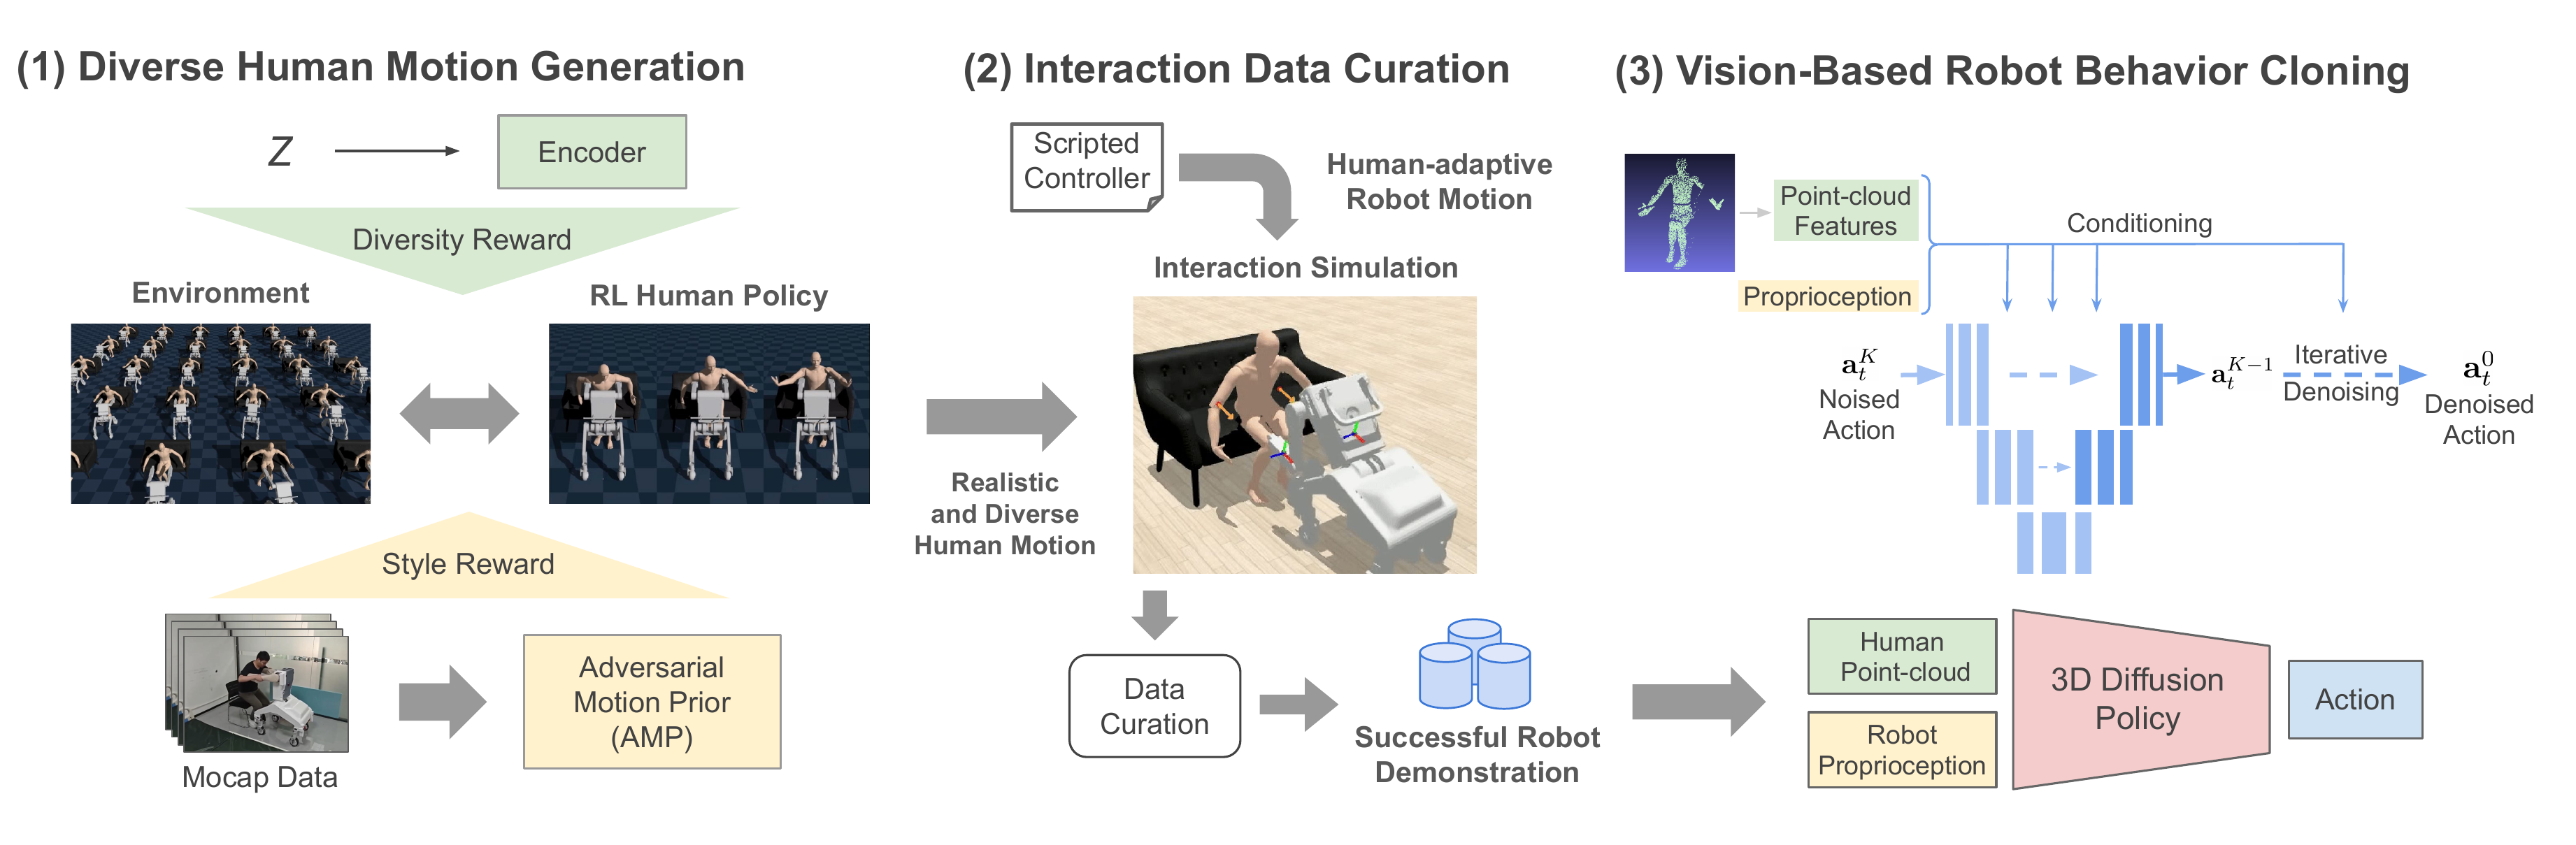
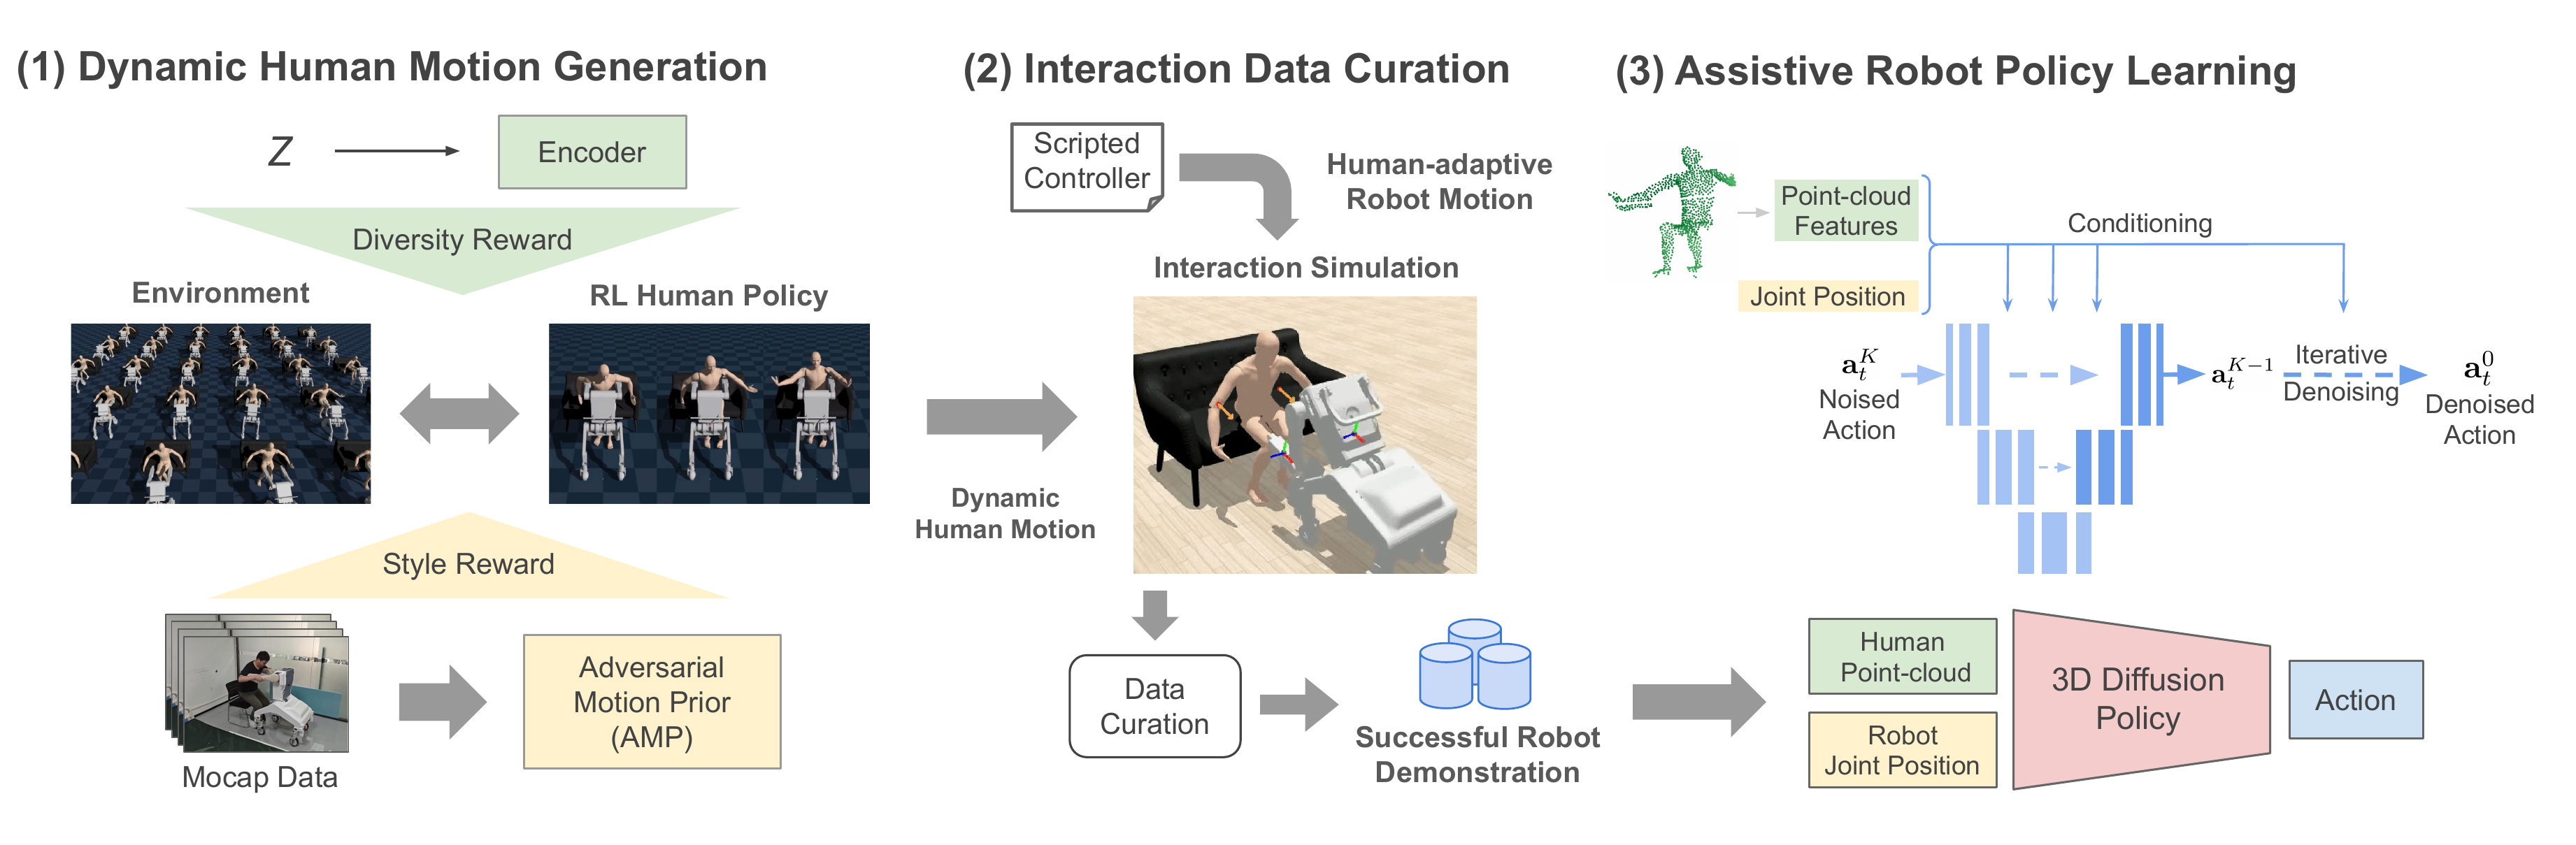
updated webpage 0629

diff --git a/index.html b/index.html
@@ -5,7 +5,7 @@
     <meta charset="utf-8">
     <meta name="viewport" content="width=device-width, initial-scale=1">
     <!-- TODO: page <title> shown in the browser tab -->
-    <title>Learning Robust Policies for Whole-Body Assistive Tasks via Diverse Physics-Based Human Motion Generation</title>
+    <title>Learning Robust Policies for Whole-Body Assistive Tasks via Dynamic Human Motion Generation</title>
 
     <link href="https://fonts.googleapis.com/css?family=Google+Sans|Noto+Sans|Castoro" rel="stylesheet">
 
@@ -39,7 +39,8 @@
 
                         <!-- TODO: full paper title -->
                         <h1 class="title is-1 publication-title">
-                            Learning Robust Policies for Whole-Body Assistive Tasks via Diverse Physics-Based Human Motion Generation
+                            Learning Robust Policies for Whole-Body<br>
+                            Assistive Tasks via Dynamic Human Motion Generation
                         </h1>
 
                         <!-- TODO: venue / submission status -->
@@ -138,7 +139,7 @@
                     <h2 class="title is-3">Abstract</h2>
                     <div class="content has-text-justified">
                         <p style="font-size: 125%">
-Learning robot policies for physical caregiving assistance is challenging because assistive tasks require close-contact, whole-body coordination with actively moving humans. Real-world data collection for such interactions is expensive and safety-critical, while existing simulation-based approaches often rely on quasi-static or minimally active human models that do not capture the diversity of real human behaviors. In this work, we present a simulation-driven framework for learning robust assistive robot policies through diverse physics-based human motion generation. We first train a latent-conditioned physics-based human policy with an adversarial motion prior to generate biomechanically plausible and diverse human motions during human-robot interaction. We then use these human motions to collect robot demonstrations with a human-adaptive scripted controller, producing interaction data that covers diverse human poses, motion styles, body scales, and relative human-robot configurations. Finally, we train a 3D diffusion policy from the curated demonstrations using segmented human point clouds and robot proprioception as deployable observations. Experiments on Sit-to-Stand and Lift-and-Transfer tasks show that our learned policy achieves strong simulation performance. Ablations further show that increasing human motion diversity improves downstream robot policy performance. We also demonstrate preliminary sim-to-real transfer on a physical assistive robot for Sit-to-Stand assistance after lightweight fine-tuning with a small amount of real-world data. These results suggest that diverse physics-based human motion generation is an effective path toward scalable learning of whole-body assistive robot policies.
+Learning robot policies for physical caregiving assistance is challenging because assistive tasks require close-contact, whole-body coordination with humans who dynamically move, balance, and exert interaction forces. Real-world data collection for such interactions is expensive and safety-critical, while existing simulation-based approaches often rely on quasi-static or minimally active human models that do not capture the dynamic nature of transfer assistance. In this work, we present a simulation-driven framework for learning robust whole-body assistive robot policies via dynamic human motion generation. We first train a physics-based human policy with an adversarial motion prior to generate biomechanically plausible human motions during physical human-robot interaction. The generated human acts as a dynamic simulated care recipient, allowing the robot to experience physically coupled interaction rather than assistance around a static human model. We then collect robot demonstrations in simulation with a human-adaptive scripted controller that conditions its assistance behavior on the current human state. Finally, we train a 3D diffusion policy from the curated demonstrations using segmented human point clouds and robot joint positions as deployable observations. Experiments on Sit-to-Stand and Lift-and-Transfer tasks show that the learned policy achieves strong simulation performance in close-contact assistive scenarios. We also demonstrate preliminary sim-to-real transfer on a physical assistive robot for Sit-to-Stand assistance after lightweight fine-tuning with a small amount of real-world data. These results suggest that dynamic human motion generation provides a scalable path toward learning robot policies for whole-body assistive tasks. Videos can be found on our anonymized <a href="https://human-motion-assistive-policy.github.io/">project website</a>.
                         </p>
                     </div>
                 </div>
@@ -155,10 +156,10 @@ Learning robot policies for physical caregiving assistance is challenging becaus
                         <h2 class="title is-3"><span class="dvima">Method Overview</span></h2>
 
                         <p style="font-size: 125%">
-Our framework uses a small set of motion-capture clips to generate diverse, physics-based human motions and collect human-robot interaction demonstrations across varied body scales, poses, motion styles, and environments. These demonstrations are then used to train a deployable vision-based robot policy that maps segmented human point clouds and robot proprioception to robot actions using 3D Diffusion Policy.
+Our training pipeline has three stages. First, we train a physics-based human policy with an Adversarial Motion Prior (AMP) and latent conditioning to generate <strong>dynamic physics-based human motions</strong> across varied human physical capabilities, body scales, poses, motion styles, and environments. Next, we simulate robot assistance with a human-adaptive scripted controller and curate successful interactions as robot demonstrations. Finally, we train a deployable assistive robot policy that maps segmented human point clouds and robot joint positions to robot delta joint actions.
                         </p>
 
-                        <img src="figs/overview.png" class="interpolation-image" alt="Method overview"
+                        <img src="figs/overview.png" class="interpolation-image" alt="Method pipeline figure"
                             style="display: block; margin-left: auto; margin-right: auto; max-width: 100%;" />
                         <br>
                     </div>
@@ -393,67 +394,97 @@ Our framework uses a small set of motion-capture clips to generate diverse, phys
                 <p class="policy-evaluation-lead">
                     Human capability means the <strong>human torque limit</strong> in simulation. Here we
                     <strong>compare robot policies trained with different human capability distributions</strong>:
-                    one uses mixed capabilities, with one higher and one lower value, while the other uses a single
-                    capability value. Both are evaluated on the same capability sweep.
+                    one uses mixed capabilities, with both 1.0x and 0.25x humans, while the others use a single
+                    human capability.
                 </p>
                 <p class="policy-evaluation-lead">
                     In each paired rollout, the human and robot placement, running human policy, human scale, and
                     human capability are the same. The only difference is the <strong>robot policy</strong>.
                 </p>
                 <p class="policy-evaluation-lead">
-                    The rollouts below show that <strong>training with mixed human capabilities improves robustness
-                    and generalization</strong>: the mixed-capability policy succeeds where the single-capability
-                    policy fails.
+                    The rollouts below show that <strong>training with mixed human capabilities improves robustness</strong>:
+                    mixed-capability training better adapts to the evaluated interactions and produces successful
+                    assistance in cases where single-capability training fails.
                 </p>
 
-                <div class="policy-comparison-grid" aria-label="Qualitative robot policy comparison">
-                    <div class="policy-comparison-label">Trained with Mixed Human Capabilities</div>
-                    <div class="policy-comparison-label">Trained with Single Human Capability</div>
+                <div class="policy-comparison-group">
+                    <div class="policy-comparison-grid" aria-label="Mixed capability policy versus single 1.0x capability policy">
+                        <div class="policy-comparison-label">Trained with Mixed (1.0x / 0.25x) Human Capabilities</div>
+                        <div class="policy-comparison-label">Trained with Single (1.0x) Human Capability</div>
 
-                    <div class="policy-comparison-video is-success" data-policy="Trained with Mixed Human Capabilities">
-                        <video autoplay controls muted loop playsinline preload="metadata">
-                            <source src="videos/policy-comparison/config_0071_mixed.mp4" type="video/mp4">
-                        </video>
-                    </div>
-                    <div class="policy-comparison-video is-failure" data-policy="Trained with Single Human Capability">
-                        <video autoplay controls muted loop playsinline preload="metadata">
-                            <source src="videos/policy-comparison/config_0071_unihigh.mp4" type="video/mp4">
-                        </video>
-                    </div>
-
-                    <div class="policy-comparison-video is-success" data-policy="Trained with Mixed Human Capabilities">
-                        <video autoplay controls muted loop playsinline preload="metadata">
-                            <source src="videos/policy-comparison/config_0052_mixed.mp4" type="video/mp4">
-                        </video>
-                    </div>
-                    <div class="policy-comparison-video is-failure" data-policy="Trained with Single Human Capability">
-                        <video autoplay controls muted loop playsinline preload="metadata">
-                            <source src="videos/policy-comparison/config_0052_unihigh.mp4" type="video/mp4">
-                        </video>
-                    </div>
-
-                    <figure class="policy-comparison-item">
-                        <div class="policy-comparison-video is-success" data-policy="Trained with Mixed Human Capabilities">
+                        <div class="policy-comparison-video is-success" data-policy="Trained with Mixed (1.0x / 0.25x) Human Capabilities">
                             <video autoplay controls muted loop playsinline preload="metadata">
-                                <source src="videos/policy-comparison/config_0191_mixed.mp4" type="video/mp4">
+                                <source src="videos/policy-comparison/q2_config_0032_mixed_15p0s_freeze2p5s.mp4" type="video/mp4">
                             </video>
                         </div>
-                        <figcaption>
-                            The mixed-trained policy provides enough robot-arm lift to raise the human to an
-                            appropriate height.
-                        </figcaption>
-                    </figure>
-                    <figure class="policy-comparison-item">
-                        <div class="policy-comparison-video is-failure" data-policy="Trained with Single Human Capability">
+                        <div class="policy-comparison-video is-failure" data-policy="Trained with Single (1.0x) Human Capability">
                             <video autoplay controls muted loop playsinline preload="metadata">
-                                <source src="videos/policy-comparison/config_0191_unihigh.mp4" type="video/mp4">
+                                <source src="videos/policy-comparison/q2_config_0032_unihigh_15p0s_freeze2p5s.mp4" type="video/mp4">
                             </video>
                         </div>
-                        <figcaption>
-                            The single-capability policy provides insufficient lift and does not fully adapt to this
-                            human capability.
-                        </figcaption>
-                    </figure>
+
+                        <div class="policy-comparison-video is-success" data-policy="Trained with Mixed (1.0x / 0.25x) Human Capabilities">
+                            <video autoplay controls muted loop playsinline preload="metadata">
+                                <source src="videos/policy-comparison/q2_config_0039_mixed_15p0s_freeze2p5s.mp4" type="video/mp4">
+                            </video>
+                        </div>
+                        <div class="policy-comparison-video is-failure" data-policy="Trained with Single (1.0x) Human Capability">
+                            <video autoplay controls muted loop playsinline preload="metadata">
+                                <source src="videos/policy-comparison/q2_config_0039_unihigh_15p0s_freeze2p5s.mp4" type="video/mp4">
+                            </video>
+                        </div>
+
+                        <div class="policy-comparison-video is-success" data-policy="Trained with Mixed (1.0x / 0.25x) Human Capabilities">
+                            <video autoplay controls muted loop playsinline preload="metadata">
+                                <source src="videos/policy-comparison/q2_config_0052_mixed_15p0s_freeze2p5s.mp4" type="video/mp4">
+                            </video>
+                        </div>
+                        <div class="policy-comparison-video is-failure" data-policy="Trained with Single (1.0x) Human Capability">
+                            <video autoplay controls muted loop playsinline preload="metadata">
+                                <source src="videos/policy-comparison/q2_config_0052_unihigh_15p0s_freeze2p5s.mp4" type="video/mp4">
+                            </video>
+                        </div>
+                    </div>
+                </div>
+
+                <div class="policy-comparison-group">
+                    <div class="policy-comparison-grid" aria-label="Mixed capability policy versus single 0.25x capability policy">
+                        <div class="policy-comparison-label">Trained with Mixed (1.0x / 0.25x) Human Capabilities</div>
+                        <div class="policy-comparison-label">Trained with Single (0.25x) Human Capability</div>
+
+                        <div class="policy-comparison-video is-success" data-policy="Trained with Mixed (1.0x / 0.25x) Human Capabilities">
+                            <video autoplay controls muted loop playsinline preload="metadata">
+                                <source src="videos/policy-comparison/q2_config_0422_mixed_14p0s_freeze4p5s.mp4" type="video/mp4">
+                            </video>
+                        </div>
+                        <div class="policy-comparison-video is-failure" data-policy="Trained with Single (0.25x) Human Capability">
+                            <video autoplay controls muted loop playsinline preload="metadata">
+                                <source src="videos/policy-comparison/q2_config_0422_unilow_16p0s_freeze2p5s.mp4" type="video/mp4">
+                            </video>
+                        </div>
+
+                        <div class="policy-comparison-video is-success" data-policy="Trained with Mixed (1.0x / 0.25x) Human Capabilities">
+                            <video autoplay controls muted loop playsinline preload="metadata">
+                                <source src="videos/policy-comparison/q2_config_0235_mixed_14p0s_freeze4p5s.mp4" type="video/mp4">
+                            </video>
+                        </div>
+                        <div class="policy-comparison-video is-failure" data-policy="Trained with Single (0.25x) Human Capability">
+                            <video autoplay controls muted loop playsinline preload="metadata">
+                                <source src="videos/policy-comparison/q2_config_0235_unilow_16p0s_freeze2p5s.mp4" type="video/mp4">
+                            </video>
+                        </div>
+
+                        <div class="policy-comparison-video is-success" data-policy="Trained with Mixed (1.0x / 0.25x) Human Capabilities">
+                            <video autoplay controls muted loop playsinline preload="metadata">
+                                <source src="videos/policy-comparison/q2_config_0323_mixed_18p0s_freeze2p5s.mp4" type="video/mp4">
+                            </video>
+                        </div>
+                        <div class="policy-comparison-video is-failure" data-policy="Trained with Single (0.25x) Human Capability">
+                            <video autoplay controls muted loop playsinline preload="metadata">
+                                <source src="videos/policy-comparison/q2_config_0323_unilow_18p0s_freeze2p5s.mp4" type="video/mp4">
+                            </video>
+                        </div>
+                    </div>
                 </div>
             </div>
 

diff --git a/static/css/index.css b/static/css/index.css
@@ -349,6 +349,27 @@ body {
     margin-top: 3rem;
 }
 
+.policy-comparison-group {
+    width: 100%;
+    max-width: 980px;
+    display: flex;
+    flex-direction: column;
+    gap: 0.65rem;
+}
+
+.policy-comparison-group + .policy-comparison-group {
+    margin-top: 1.4rem;
+}
+
+.policy-comparison-caption {
+    max-width: 860px;
+    margin: 0 auto;
+    text-align: center;
+    font-size: 110%;
+    line-height: 1.35;
+    color: #444;
+}
+
 .body-scale-section {
     width: 100%;
     display: flex;